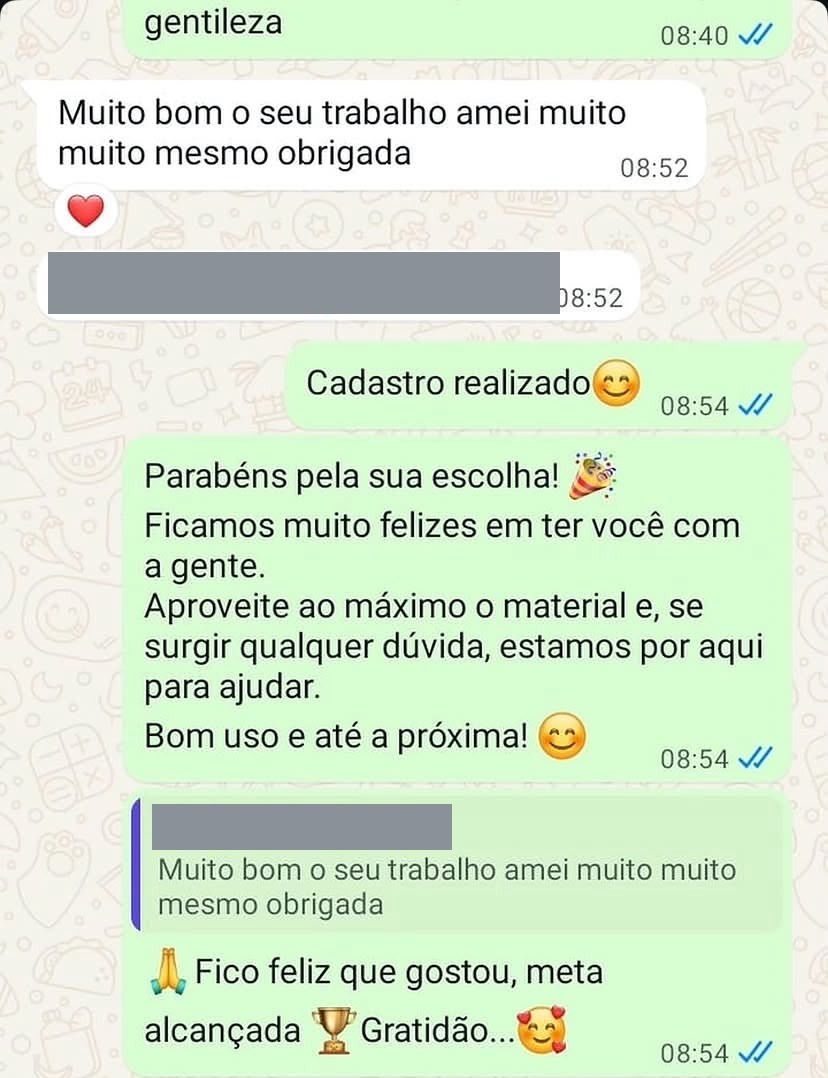
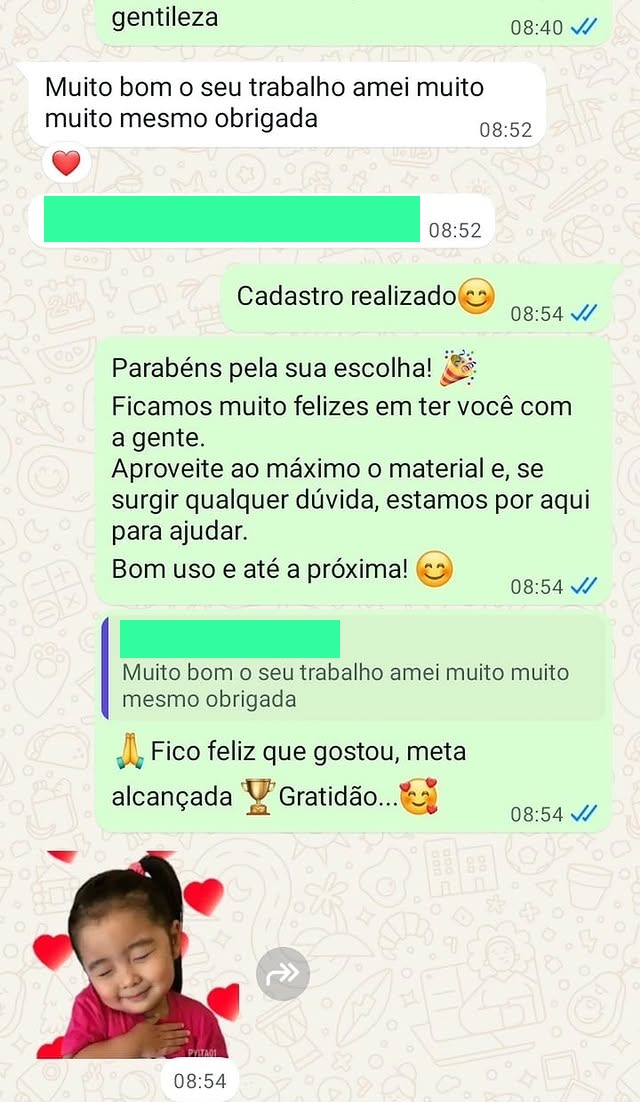
Instala o rastreamento da UTMify e refaz os depoimentos do checkout
RASTREAMENTO
Adiciona o script de UTMs da UTMify na pagina de vendas e no checkout, e
libera cdn.utmify.com.br no script-src das duas. Ele le os parametros de
campanha da URL, guarda em localStorage e os repassa aos links - inclusive
ao link do Cakto, que e montado por JavaScript. Testado ponta a ponta: as
UTMs chegam ao pagamento.

O connect-src nao mudou: o script nao faz requisicao nenhuma por conta
propria (sem fetch, XHR, sendBeacon, Image ou WebSocket), entao nao havia
motivo para dar permissao de rede.

Entra como tag direta em vez do carregador ofuscado que a UTMify entrega.
O carregador tem o padrao atob + XOR + injecao de script, que antivirus
reconhece como dropper: o arquivo era apagado do disco em segundos, tanto
em .js quanto em .html. Colado no index.html, teria levado a pagina junto.
Decodificado, o carregador so injeta esta mesma URL com estes mesmos
atributos - o efeito e identico.

BACK-REDIRECT
Novo assets/back-redirect.js, so no checkout: o primeiro "voltar" leva a
secao de ofertas em vez de deixar o visitante sair do site.

Dispara uma vez por aba, diferente do exemplo da UTMify. Sem esse limite o
visitante fica preso alternando entre checkout e oferta a cada clique, sem
conseguir sair - verificado na pratica. Uma entrada extra no historico, nao
tres, para a saida ficar limpa depois do primeiro disparo.

Monta a URL com a query antes da ancora. O exemplo concatena depois, o que
[…]

diff --git a/index.html b/index.html
@@ -1,7 +1,7 @@
 <!DOCTYPE html>
 <!-- saved from url=(0036)https://matematica.licaokids.com.br/ -->
 <html lang="pt-BR" class="wf-poppins-n4-active wf-inter-n3-active wf-inter-n9-active wf-inter-n2-active wf-inter-n6-active wf-inter-n1-active wf-inter-n4-active wf-inter-n7-active wf-inter-n8-active wf-inter-n5-active wf-roboto-i7-active wf-roboto-i5-active wf-roboto-i4-active wf-roboto-i2-active wf-roboto-i3-active wf-roboto-i1-active wf-roboto-i9-active wf-roboto-i8-active wf-roboto-i6-active wf-poppins-n6-active wf-poppins-n2-active wf-poppins-i2-active wf-poppins-n1-active wf-poppins-n3-active wf-poppins-n5-active wf-poppins-n7-active wf-poppins-i1-active wf-montserrat-i8-active wf-montserrat-i9-active wf-montserrat-i2-active wf-montserrat-i1-active wf-montserrat-i4-active wf-montserrat-i6-active wf-montserrat-i7-active wf-montserrat-i3-active wf-montserrat-i5-active wf-poppins-i5-active wf-montserrat-n4-active wf-montserrat-n7-active wf-montserrat-n9-active wf-montserrat-n6-active wf-montserrat-n2-active wf-montserrat-n8-active wf-montserrat-n3-active wf-montserrat-n5-active wf-montserrat-n1-active wf-roboto-n1-active wf-roboto-n8-active wf-roboto-n4-active wf-roboto-n2-active wf-roboto-n6-active wf-roboto-n7-active wf-roboto-n3-active wf-roboto-n5-active wf-roboto-n9-active wf-inter-i7-active wf-inter-i8-active wf-inter-i1-active wf-inter-i4-active wf-inter-i2-active wf-inter-i3-active wf-inter-i5-active wf-inter-i6-active wf-inter-i9-active wf-poppins-i7-active wf-robotoslab-n1-active wf-robotoslab-i1-active wf-robotoslab-n3-active wf-robotoslab-i3-active wf-robotoslab-n8-active wf-robotoslab-i8-active wf-robotoslab-n6-active wf-robotoslab-i6-active wf-robotoslab-n9-active wf-robotoslab-i9-active wf-robotoslab-n7-active wf-robotoslab-i7-active wf-robotoslab-n5-active wf-robotoslab-i5-active wf-robotoslab-n2-active wf-robotoslab-i2-active wf-robotoslab-n4-active wf-robotoslab-i4-active wf-poppins-n9-active wf-poppins-i4-active wf-poppins-n8-active wf-poppins-i9-active wf-poppins-i8-active wf-poppins-i3-active wf-poppins-i6-active wf-active"><head>
-<meta http-equiv="Content-Security-Policy" content="default-src 'self' 'unsafe-inline' 'unsafe-eval' data: blob:; script-src 'self' 'unsafe-inline' 'unsafe-eval' https://connect.facebook.net; connect-src 'self' https://www.facebook.com https://connect.facebook.net; frame-src 'none'; img-src 'self' data: blob: https://www.facebook.com https://matematica.licaokids.com.br https://lojalicaokids.com https://licaocursivas.com.br; style-src 'self' 'unsafe-inline' https://fonts.googleapis.com; font-src 'self' data: https://fonts.gstatic.com"><meta http-equiv="Content-Type" content="text/html; charset=UTF-8"><link rel="preconnect" href="https://fonts.gstatic.com/" crossorigin=""><script src="assets/meta-pixel.js"></script><noscript><img height="1" width="1" style="display:none" alt="" src="https://www.facebook.com/tr?id=923127513721683&amp;ev=PageView&amp;noscript=1"></noscript><title>Mundo Matemágico</title><meta name="robots" content="max-image-preview:large"><link rel="alternate" type="application/rss+xml" title="Feed para Mundo Matemágico »" href="https://matematica.licaokids.com.br/feed/"><link rel="alternate" type="application/rss+xml" title="Feed de comentários para Mundo Matemágico »" href="https://matematica.licaokids.com.br/comments/feed/"><link rel="alternate" title="oEmbed (JSON)" type="application/json+oembed" href="https://matematica.licaokids.com.br/wp-json/oembed/1.0/embed?url=https%3A%2F%2Fmatematica.licaokids.com.br%2F"><link rel="alternate" title="oEmbed (XML)" type="text/xml+oembed" href="https://matematica.licaokids.com.br/wp-json/oembed/1.0/embed?url=https%3A%2F%2Fmatematica.licaokids.com.br%2F&amp;format=xml"> <script>WebFontConfig={google:{families:["Roboto:100,100italic,200,200italic,300,300italic,400,400italic,500,500italic,600,600italic,700,700italic,800,800italic,900,900italic","Roboto Slab:100,100italic,200,200italic,300,300italic,400,400italic,500,500italic,600,600italic,700,700italic,800,800italic,900,900italic","Inter:100,100italic,200,200italic,300,300italic,400,400italic,500,500italic,600,600italic,700,700italic,800,800italic,900,900italic","Montserrat:100,100italic,200,200italic,300,300italic,400,400italic,500,500italic,600,600italic,700,700italic,800,800italic,900,900italic","Poppins:100,100italic,200,200italic,300,300italic,400,400italic,500,500italic,600,600italic,700,700italic,800,800italic,900,900italic"]}};if ( typeof WebFont === "object" && typeof WebFont.load === "function" ) { WebFont.load( WebFontConfig ); }</script><link rel="stylesheet" href="assets/fontes-google.css" media="all"><script data-optimized="1" src="assets/webfontloader.min.js"></script><link data-optimized="2" rel="stylesheet" href="assets/801043018568c95e3d614711594a51ed.css"> <script id="jquery-core-js" src="assets/jquery.min.js"></script> <link rel="https://api.w.org/" href="https://matematica.licaokids.com.br/wp-json/"><link rel="alternate" title="JSON" type="application/json" href="https://matematica.licaokids.com.br/wp-json/wp/v2/pages/1695"><link rel="EditURI" type="application/rsd+xml" title="RSD" href="https://matematica.licaokids.com.br/xmlrpc.php?rsd"><meta name="generator" content="WordPress 7.1"><link rel="canonical" href="https://matematica.licaokids.com.br/"><link rel="shortlink" href="https://matematica.licaokids.com.br/"><meta name="generator" content="Elementor 4.2.4; features: e_font_icon_svg, additional_custom_breakpoints; settings: css_print_method-external, google_font-enabled, font_display-swap">
+<meta http-equiv="Content-Security-Policy" content="default-src 'self' 'unsafe-inline' 'unsafe-eval' data: blob:; script-src 'self' 'unsafe-inline' 'unsafe-eval' https://connect.facebook.net https://cdn.utmify.com.br; connect-src 'self' https://www.facebook.com https://connect.facebook.net; frame-src 'none'; img-src 'self' data: blob: https://www.facebook.com https://matematica.licaokids.com.br https://lojalicaokids.com https://licaocursivas.com.br; style-src 'self' 'unsafe-inline' https://fonts.googleapis.com; font-src 'self' data: https://fonts.gstatic.com"><meta http-equiv="Content-Type" content="text/html; charset=UTF-8"><link rel="preconnect" href="https://fonts.gstatic.com/" crossorigin=""><script src="https://cdn.utmify.com.br/scripts/utms/latest.js" data-utmify-prevent-xcod-sck data-utmify-prevent-subids async defer></script><script src="assets/meta-pixel.js"></script><noscript><img height="1" width="1" style="display:none" alt="" src="https://www.facebook.com/tr?id=923127513721683&amp;ev=PageView&amp;noscript=1"></noscript><title>Mundo Matemágico</title><meta name="robots" content="max-image-preview:large"><link rel="alternate" type="application/rss+xml" title="Feed para Mundo Matemágico »" href="https://matematica.licaokids.com.br/feed/"><link rel="alternate" type="application/rss+xml" title="Feed de comentários para Mundo Matemágico »" href="https://matematica.licaokids.com.br/comments/feed/"><link rel="alternate" title="oEmbed (JSON)" type="application/json+oembed" href="https://matematica.licaokids.com.br/wp-json/oembed/1.0/embed?url=https%3A%2F%2Fmatematica.licaokids.com.br%2F"><link rel="alternate" title="oEmbed (XML)" type="text/xml+oembed" href="https://matematica.licaokids.com.br/wp-json/oembed/1.0/embed?url=https%3A%2F%2Fmatematica.licaokids.com.br%2F&amp;format=xml"> <script>WebFontConfig={google:{families:["Roboto:100,100italic,200,200italic,300,300italic,400,400italic,500,500italic,600,600italic,700,700italic,800,800italic,900,900italic","Roboto Slab:100,100italic,200,200italic,300,300italic,400,400italic,500,500italic,600,600italic,700,700italic,800,800italic,900,900italic","Inter:100,100italic,200,200italic,300,300italic,400,400italic,500,500italic,600,600italic,700,700italic,800,800italic,900,900italic","Montserrat:100,100italic,200,200italic,300,300italic,400,400italic,500,500italic,600,600italic,700,700italic,800,800italic,900,900italic","Poppins:100,100italic,200,200italic,300,300italic,400,400italic,500,500italic,600,600italic,700,700italic,800,800italic,900,900italic"]}};if ( typeof WebFont === "object" && typeof WebFont.load === "function" ) { WebFont.load( WebFontConfig ); }</script><link rel="stylesheet" href="assets/fontes-google.css" media="all"><script data-optimized="1" src="assets/webfontloader.min.js"></script><link data-optimized="2" rel="stylesheet" href="assets/801043018568c95e3d614711594a51ed.css"> <script id="jquery-core-js" src="assets/jquery.min.js"></script> <link rel="https://api.w.org/" href="https://matematica.licaokids.com.br/wp-json/"><link rel="alternate" title="JSON" type="application/json" href="https://matematica.licaokids.com.br/wp-json/wp/v2/pages/1695"><link rel="EditURI" type="application/rsd+xml" title="RSD" href="https://matematica.licaokids.com.br/xmlrpc.php?rsd"><meta name="generator" content="WordPress 7.1"><link rel="canonical" href="https://matematica.licaokids.com.br/"><link rel="shortlink" href="https://matematica.licaokids.com.br/"><meta name="generator" content="Elementor 4.2.4; features: e_font_icon_svg, additional_custom_breakpoints; settings: css_print_method-external, google_font-enabled, font_display-swap">
  <script async="" src="assets/elementor-frontend.js"></script>  <link rel="icon" href="assets/icone-32.png" sizes="32x32"><link rel="icon" href="assets/icone-192.png" sizes="192x192"><link rel="apple-touch-icon" href="assets/icone-180.png"><meta property="og:type" content="website"><meta property="og:site_name" content="Mundo Matemágico"><meta property="og:title" content="Mundo Matemágico — 298 páginas de atividades de matemática"><meta property="og:description" content="Apostila das 4 operações com atividades prontas, organizadas por nível escolar, do 1º ao 5º ano. Em PDF, com acesso imediato por e-mail."><meta property="og:image" content="https://mundomatemagico.vercel.app/assets/og-mundo-matemagico.jpg"><meta property="og:image:width" content="1200"><meta property="og:image:height" content="630"><meta name="twitter:card" content="summary_large_image"><meta name="msapplication-TileImage" content="assets/icone-192.png"><meta name="viewport" content="width=device-width, initial-scale=1.0, viewport-fit=cover"></head><body class="home wp-singular page-template page-template-elementor_canvas page page-id-1695 wp-embed-responsive wp-theme-hello-elementor hello-elementor-default elementor-default elementor-template-canvas elementor-kit-8 elementor-page elementor-page-1695 e--ua-blink e--ua-chrome e--ua-webkit litespeed_lazyloaded" data-elementor-device-mode="desktop"><div data-elementor-type="wp-page" data-elementor-id="1695" class="elementor elementor-1695" data-elementor-post-type="page"><div class="elementor-element elementor-element-589e1530 e-flex e-con-boxed e-con e-parent e-lazyloaded" data-id="589e1530" data-element_type="container" data-e-type="container" data-settings="{&quot;background_background&quot;:&quot;classic&quot;}"><div class="e-con-inner"><div class="elementor-element elementor-element-563904ec e-con-full e-flex e-con e-child" data-id="563904ec" data-element_type="container" data-e-type="container"><div class="elementor-element elementor-element-4152ccc8 elementor-widget__width-initial elementor-widget elementor-widget-html" data-id="4152ccc8" data-element_type="widget" data-e-type="widget" data-widget_type="html.default"></div><div class="elementor-element elementor-element-2c36c44c elementor-widget__width-initial elementor-widget elementor-widget-html" data-id="2c36c44c" data-element_type="widget" data-e-type="widget" data-widget_type="html.default"></div></div>
 <style>
 .mms-topo{

diff --git a/checkout.html b/checkout.html
@@ -2,7 +2,7 @@
 <html lang="pt-BR">
 <head>
 <meta charset="UTF-8">
-<meta http-equiv="Content-Security-Policy" content="default-src 'self'; script-src 'self' https://connect.facebook.net; style-src 'self'; img-src 'self' data: https://www.facebook.com; font-src 'self' data:; connect-src https://www.facebook.com https://connect.facebook.net; form-action 'none'; frame-src 'none'; base-uri 'none'">
+<meta http-equiv="Content-Security-Policy" content="default-src 'self'; script-src 'self' https://connect.facebook.net https://cdn.utmify.com.br; style-src 'self'; img-src 'self' data: https://www.facebook.com; font-src 'self' data:; connect-src https://www.facebook.com https://connect.facebook.net; form-action 'none'; frame-src 'none'; base-uri 'none'">
 <meta name="viewport" content="width=device-width, initial-scale=1">
 <meta name="robots" content="noindex, nofollow">
 <title>Checkout — Mundo Matemágico</title>
@@ -13,6 +13,8 @@
 <meta property="og:site_name" content="Mundo Matemágico">
 <meta property="og:image" content="https://mundomatemagico.vercel.app/assets/og-mundo-matemagico.jpg">
 <meta name="twitter:card" content="summary_large_image">
+<script src="https://cdn.utmify.com.br/scripts/utms/latest.js" data-utmify-prevent-xcod-sck data-utmify-prevent-subids async defer></script>
+<script src="assets/back-redirect.js"></script>
 <script src="assets/meta-pixel.js"></script><noscript><img height="1" width="1" style="display:none" alt="" src="https://www.facebook.com/tr?id=923127513721683&amp;ev=PageView&amp;noscript=1"></noscript>
 <link rel="stylesheet" href="checkout.css">
 </head>
@@ -139,13 +141,16 @@
        Prints REAIS de conversas no WhatsApp, tratados antes de publicar:
          depoimento-1  recorte que descarta o telefone +55 11 ...
          depoimento-2  recorte que descarta o comprovante (CNPJ e pagador)
-         depoimento-3  recorte que descarta telefone e foto; e-mail tapado
+         depoimento-3  tarja solida sobre o e-mail e sobre o telefone que
+                       aparecia na resposta citada; rodape cortado onde a
+                       mensagem seguinte comecava. A figurinha e um sticker
+                       do WhatsApp, nao foto de cliente
        Os originais NAO ficam na pasta do site. Se trocar alguma imagem,
        trate antes: dado pessoal de cliente nao pode ir para a pagina. -->
   <section class="bloco">
     <h2>Quem já comprou</h2>
 
-    <div class="prints" tabindex="0" role="group" aria-label="Conversas com clientes no WhatsApp">
+    <div class="prints" role="group" aria-label="Conversas com clientes no WhatsApp">
       <figure>
         <img src="assets/depoimento-1.jpg" width="828" height="1469" loading="lazy" decoding="async"
              alt="Conversa no WhatsApp: cliente escreve que o material chegou, que é excelente, e se desculpa pela desconfiança porque há muito golpe por aí.">
@@ -155,12 +160,11 @@
              alt="Conversa no WhatsApp: cliente diz que estava com medo de comprar e que o material é perfeito.">
       </figure>
       <figure>
-        <img src="assets/depoimento-3.jpg" width="828" height="1078" loading="lazy" decoding="async"
-             alt="Conversa no WhatsApp: cliente elogia o trabalho e recebe as boas-vindas com as instruções de acesso.">
+        <img src="assets/depoimento-3.jpg" width="640" height="1102" loading="lazy" decoding="async"
+             alt="Conversa no WhatsApp: cliente diz que amou muito o material e agradece, recebe as boas-vindas da loja e responde com uma figurinha de carinho.">
       </figure>
     </div>
 
-    <p class="arraste" aria-hidden="true">Arraste para o lado para ver as outras &rarr;</p>
     <p class="fonte">Conversas reais com clientes. Telefone, e-mail e fotos foram removidos das imagens.</p>
   </section>
 

diff --git a/assets/back-redirect.js b/assets/back-redirect.js
@@ -1,0 +1,88 @@
+/* ==========================================================================
+   Back-redirect — UTMify
+
+   Quando o visitante aperta "voltar" no checkout, em vez de sair do site ele
+   cai na pagina de vendas, direto na secao de precos.
+
+   DISPARA UMA VEZ SO POR VISITA
+   Essa e a diferenca principal para o script de exemplo da UTMify. No exemplo,
+   o visitante fica preso: volta para a oferta, aperta voltar de novo, cai no
+   checkout, volta para a oferta... sem fim. Pelo botao voltar ele nunca sai
+   do site — so fechando a aba. Medido na pratica, quatro cliques seguidos
+   alternando entre as duas paginas.
+
+   Aqui, o primeiro "voltar" leva para a oferta e marca a sessao. A partir do
+   segundo, o voltar funciona normalmente e a pessoa sai se quiser. Da a
+   segunda chance de convencer sem prender ninguem.
+
+   A marca fica em sessionStorage: vale so para aquela aba e some quando ela e
+   fechada. Se a pessoa voltar depois numa aba nova, ganha uma nova chance.
+
+   UMA PEGADA FALSA, NAO TRES
+   O exemplo da UTMify empilha tres entradas no historico. Com disparo unico
+   isso atrapalha: as duas sobrando ficariam no caminho e a pessoa precisaria
+   de varios cliques para enfim sair. Com uma, a saida fica limpa —
+   voltar leva a oferta, voltar de novo ao checkout, voltar de novo sai.
+
+   Fica so no checkout, de proposito: pega quem ja demonstrou intencao de
+   compra e esta desistindo. Na landing, prenderia tambem quem chegou por
+   engano e so quer voltar para o anuncio.
+
+   Em arquivo separado pelo mesmo motivo do meta-pixel.js: o checkout nao
+   permite script inline (nao tem unsafe-inline no script-src).
+
+   A QUERY VEM ANTES DA ANCORA
+   O exemplo da UTMify monta a URL como destino + "?" + query atual. Isso
+   quebra quando o destino tem ancora: "index.html#oferta?utm_source=..."
+   joga tudo depois do "#" para dentro do fragmento, entao as UTMs sairiam da
+   query string (perdendo a atribuicao da venda) e a ancora viraria
+   "oferta?utm_source=...", que nao corresponde a nenhum id e por isso nem
+   rolaria ate a oferta. montar() insere a query ANTES do "#".
+   ========================================================================== */
+
+(function () {
+
+  /* Para trocar o destino, mude so esta linha. */
+  var DESTINO = 'index.html#oferta';
+
+  var MARCA = 'mms-back-redirect-usado';
+
+  /* sessionStorage pode lancar excecao em modo anonimo ou com cookies
+     bloqueados. Nesse caso seguimos sem marca: o pior caso e o visitante
+     ganhar a segunda chance mais de uma vez, nunca a pagina quebrar. */
+  function jaUsado() {
+    try { return sessionStorage.getItem(MARCA) === '1'; } catch (e) { return false; }
+  }
+
+  function marcarUsado() {
+    try { sessionStorage.setItem(MARCA, '1'); } catch (e) { /* segue sem marca */ }
+  }
+
+  if (jaUsado()) { return; }
+
+  /* Leva os parametros da URL atual adiante, para a campanha continuar
+     atribuida depois do redirecionamento. */
+  function montar(destino) {
+    var busca = document.location.search.replace(/^\?/, '');
+    if (!busca) { return destino; }
+
+    var corte = destino.indexOf('#');
+    var base = corte >= 0 ? destino.slice(0, corte) : destino;
+    var ancora = corte >= 0 ? destino.slice(corte) : '';
+
+    return base + (base.indexOf('?') >= 0 ? '&' : '?') + busca + ancora;
+  }
+
+  var url = montar(DESTINO);
+
+  /* A entrada extra e o que o "voltar" consome, em vez de tirar a pessoa
+     do site. */
+  history.pushState({}, '', location.href);
+
+  window.addEventListener('popstate', function aoVoltar() {
+    window.removeEventListener('popstate', aoVoltar);
+    marcarUsado();
+    setTimeout(function () { location.href = url; }, 1);
+  });
+
+})();

diff --git a/checkout.css b/checkout.css
@@ -187,27 +187,17 @@ h1{font-size:21px;color:var(--navy);margin:18px 0 14px;line-height:1.3}
 }
 
 /* ---------- depoimentos: prints do WhatsApp ----------
-   Carrossel horizontal em vez de empilhar: tres prints de celular somam mais
-   de 2000px de altura, e empurrar isso entre o formulario e o botao de compra
-   custa venda. Assim ocupa a altura de um so. */
+   Empilhados, um abaixo do outro: o cliente ve as tres conversas so rolando,
+   sem precisar descobrir que dava para arrastar de lado.
+   Sem moldura: nada de borda, canto arredondado, sombra ou fundo bege em
+   volta. O print ocupa toda a largura do bloco. */
 .prints{
-  display:flex;gap:12px;margin:0;
-  overflow-x:auto;overscroll-behavior-x:contain;
-  scroll-snap-type:x mandatory;-webkit-overflow-scrolling:touch;
-  padding-bottom:8px;
+  display:flex;flex-direction:column;gap:14px;margin:0;
 }
 .prints figure{
-  margin:0;flex:0 0 84%;scroll-snap-align:center;
-  border:1px solid var(--borda);border-radius:12px;overflow:hidden;
-  background:#EFE7DE;box-shadow:var(--sombra);
+  margin:0;width:100%;
 }
 .prints img{display:block;width:100%;height:auto}
-.prints:focus-visible{outline:3px solid var(--amarelo);outline-offset:3px;border-radius:12px}
-.arraste{margin:10px 0 0;color:var(--suave);font-size:12px;text-align:center}
-@media (min-width:620px){
-  /* dois por vez: com o print inteiro, tres lado a lado ficam ilegiveis */
-  .prints figure{flex-basis:48%}
-}
 
 /* ---------- (mantido) conversas recriadas em HTML ----------
    Recriadas em HTML, nao sao prints. O texto e real (transcrito das conversas
